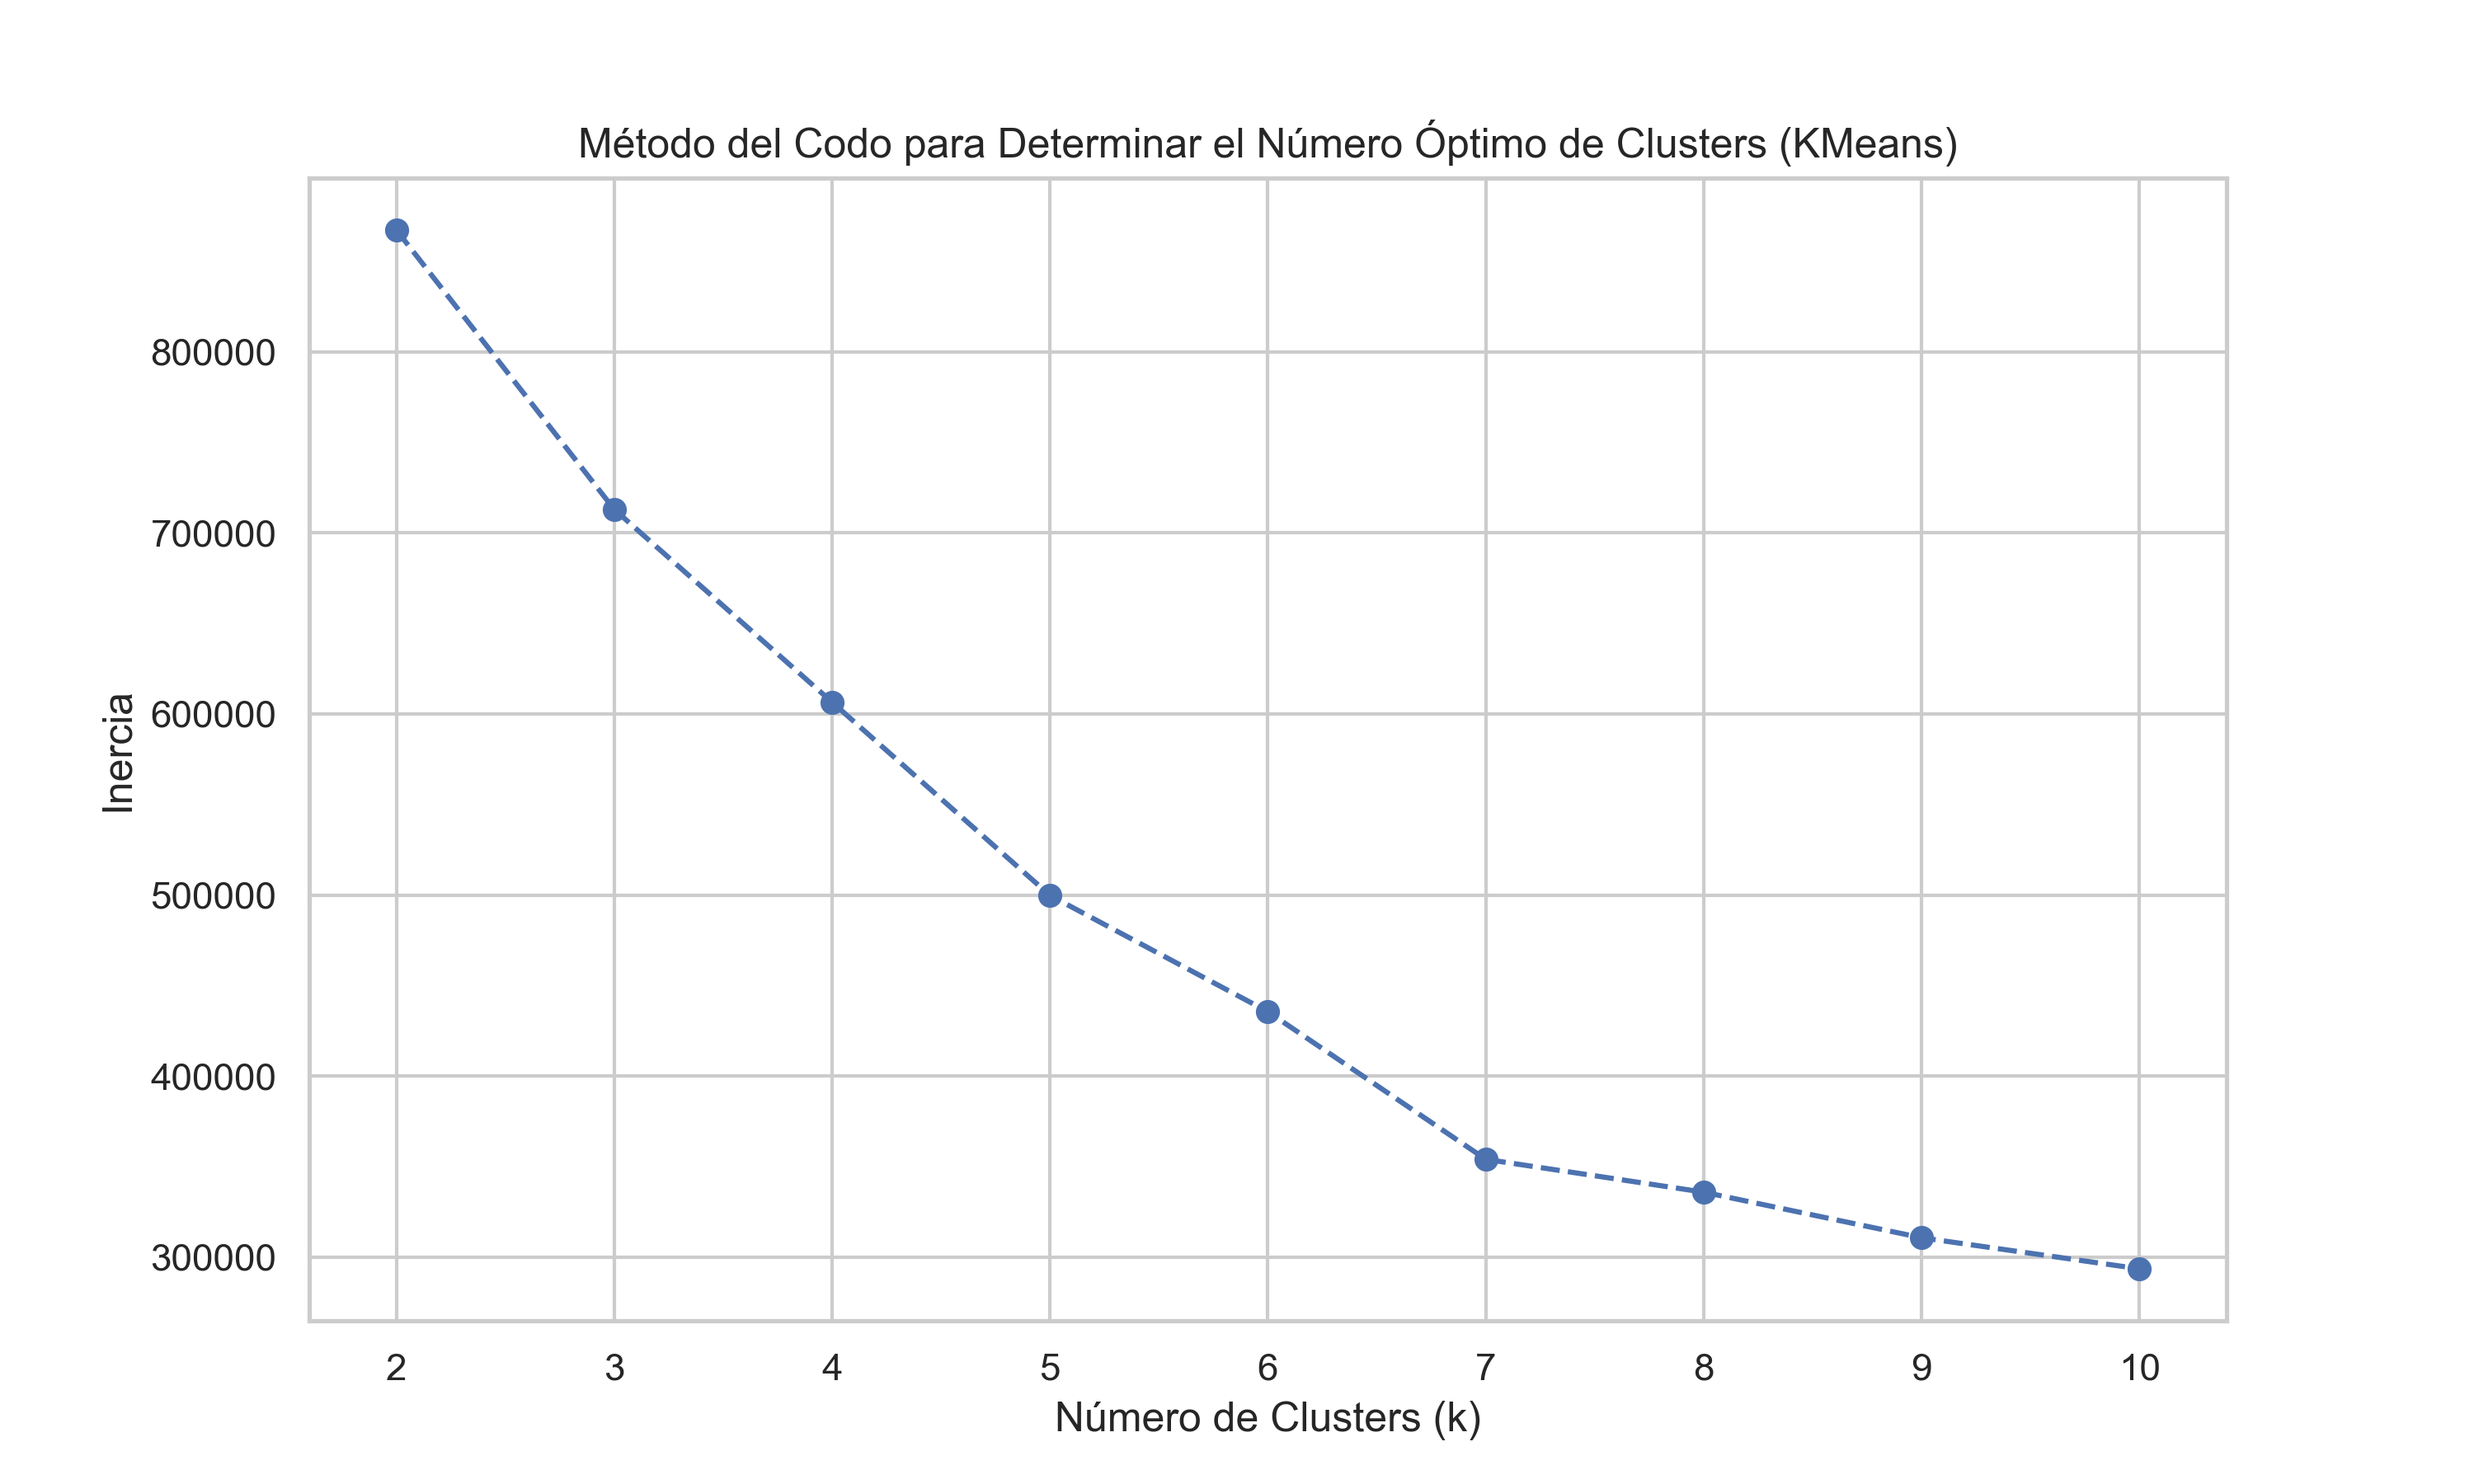
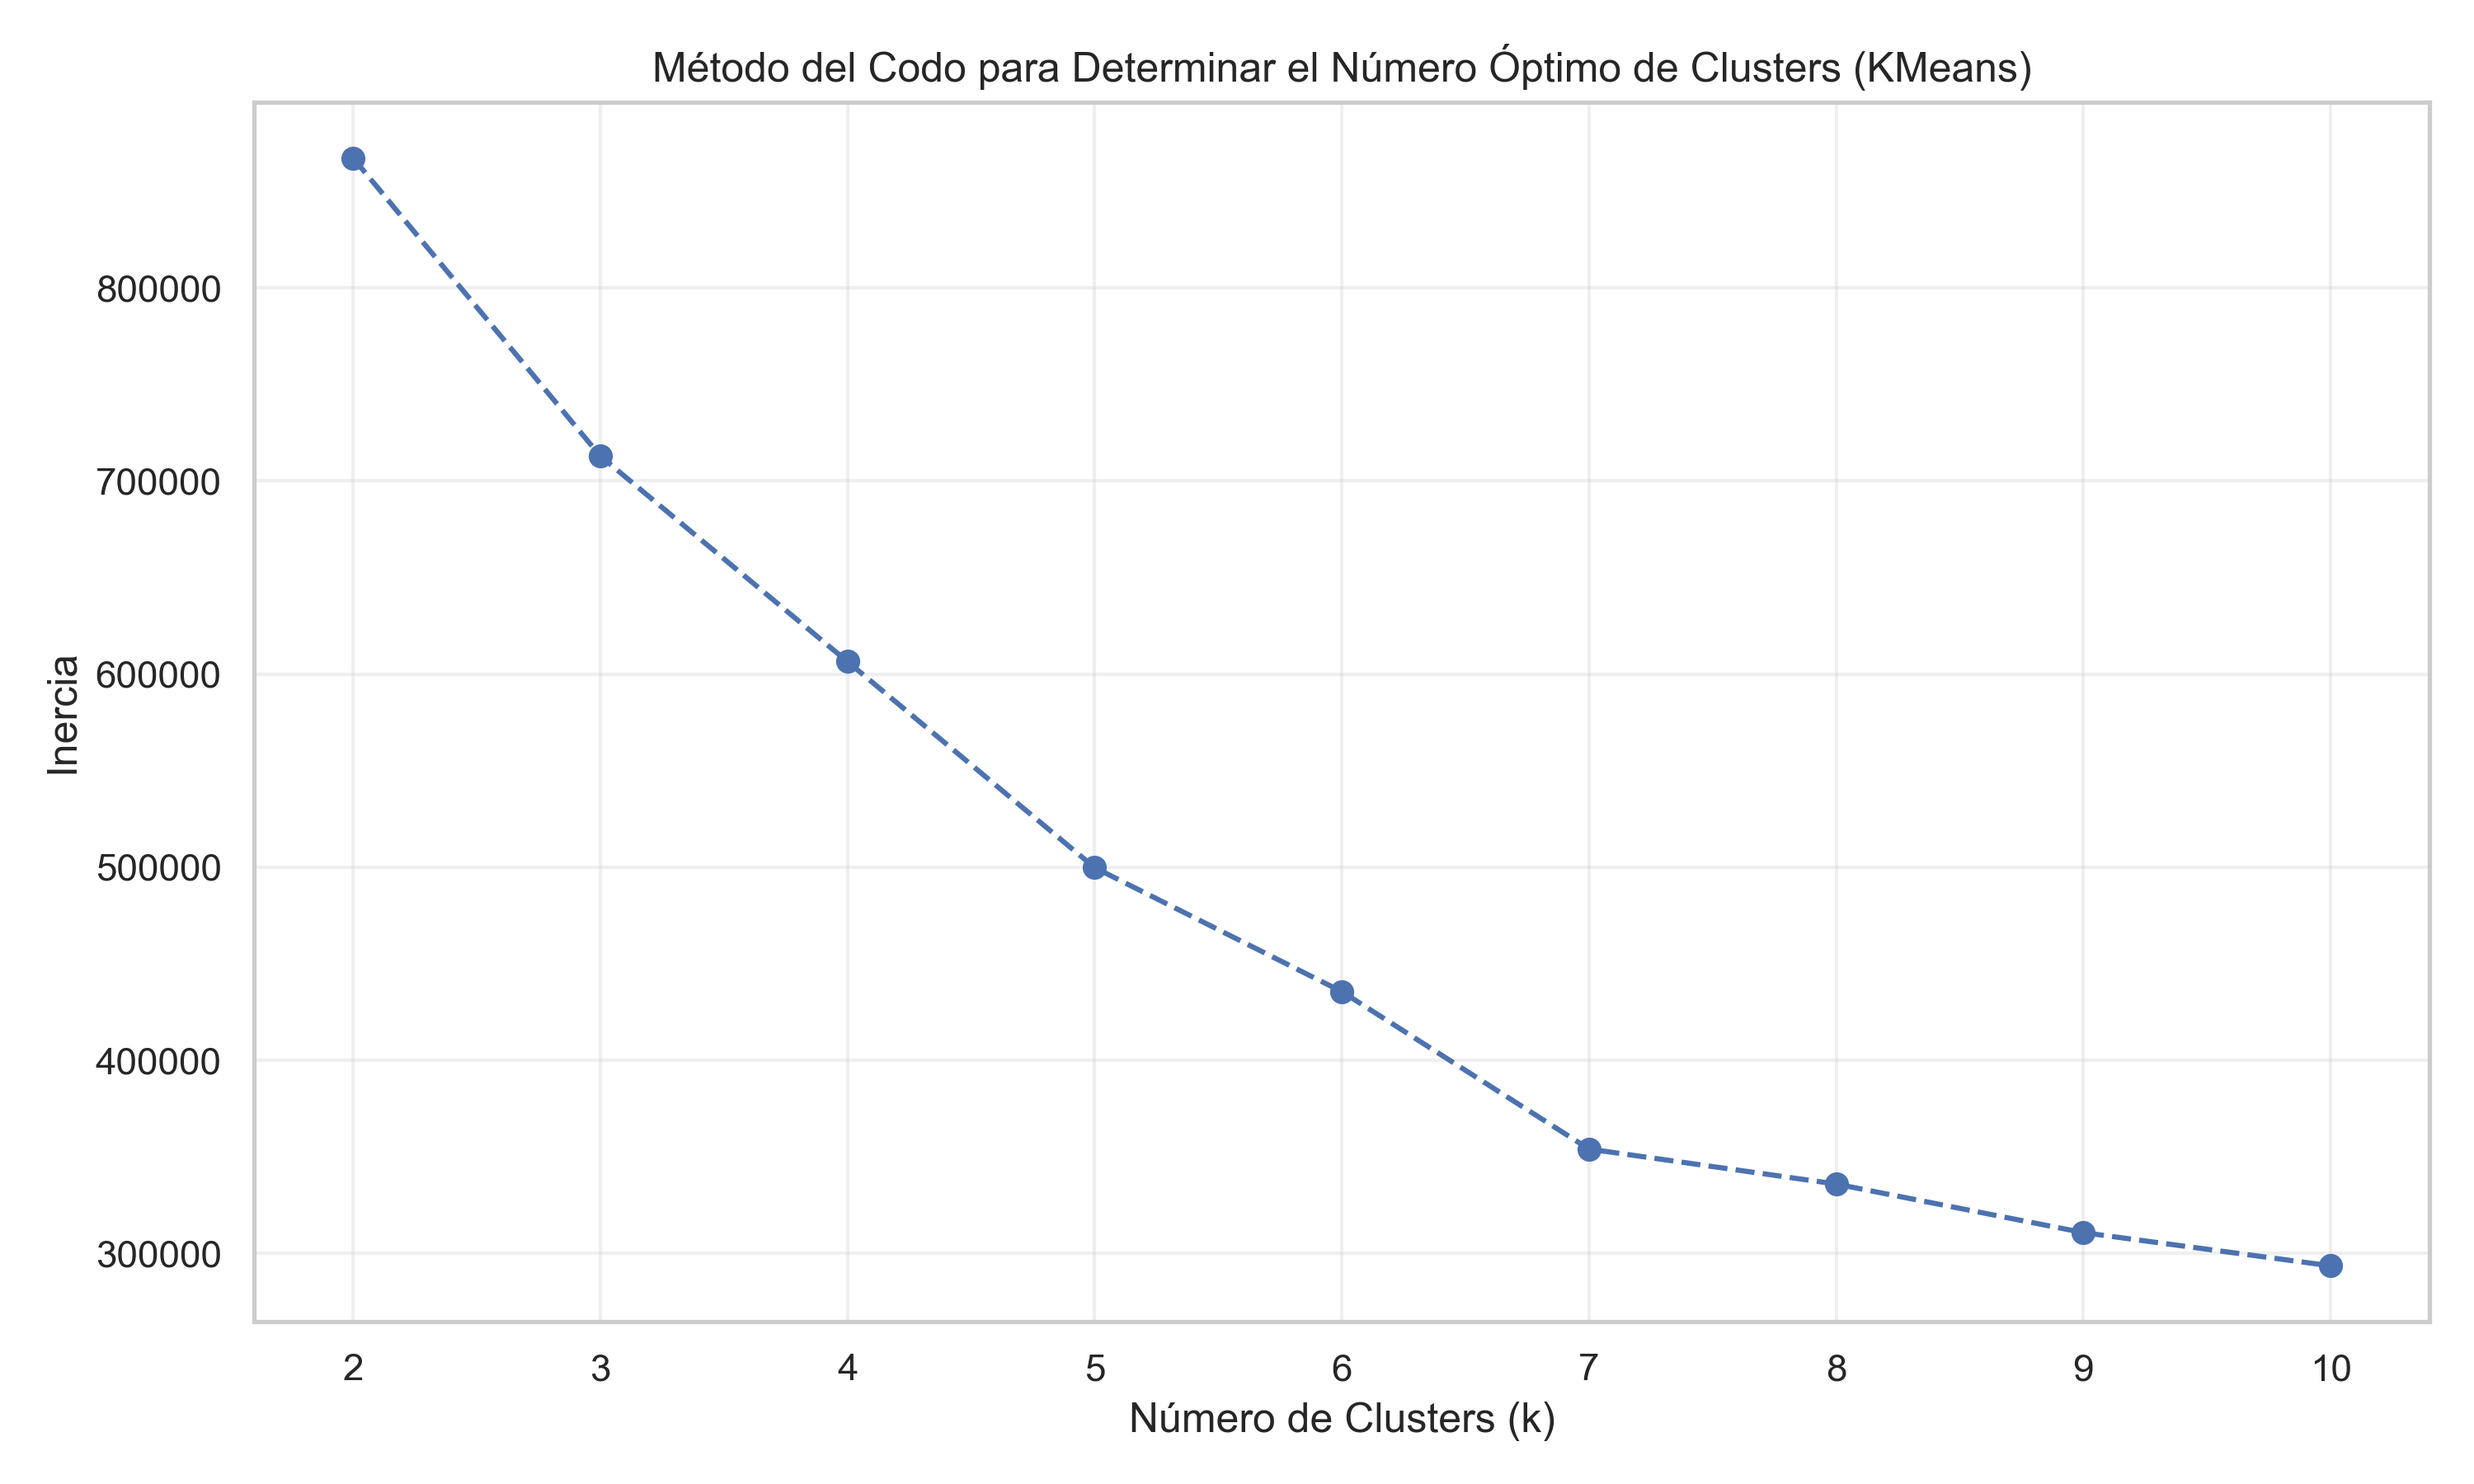
Código para elección del k optimo

diff --git a/Codigos/modelado.py b/Codigos/modelado.py
@@ -16,6 +16,8 @@ from sklearn.preprocessing import StandardScaler
 from sklearn.decomposition import PCA
 from sklearn.cluster import KMeans
 from sklearn.metrics import silhouette_score
+import warnings
+warnings.filterwarnings('ignore')
 
 #Confuguración de pandas
 pd.set_option('display.max_columns', None)
@@ -192,4 +194,5 @@ if num_componentes >= 2:
     plt.tight_layout()
     plt.show()
     plt.close()
+
 
